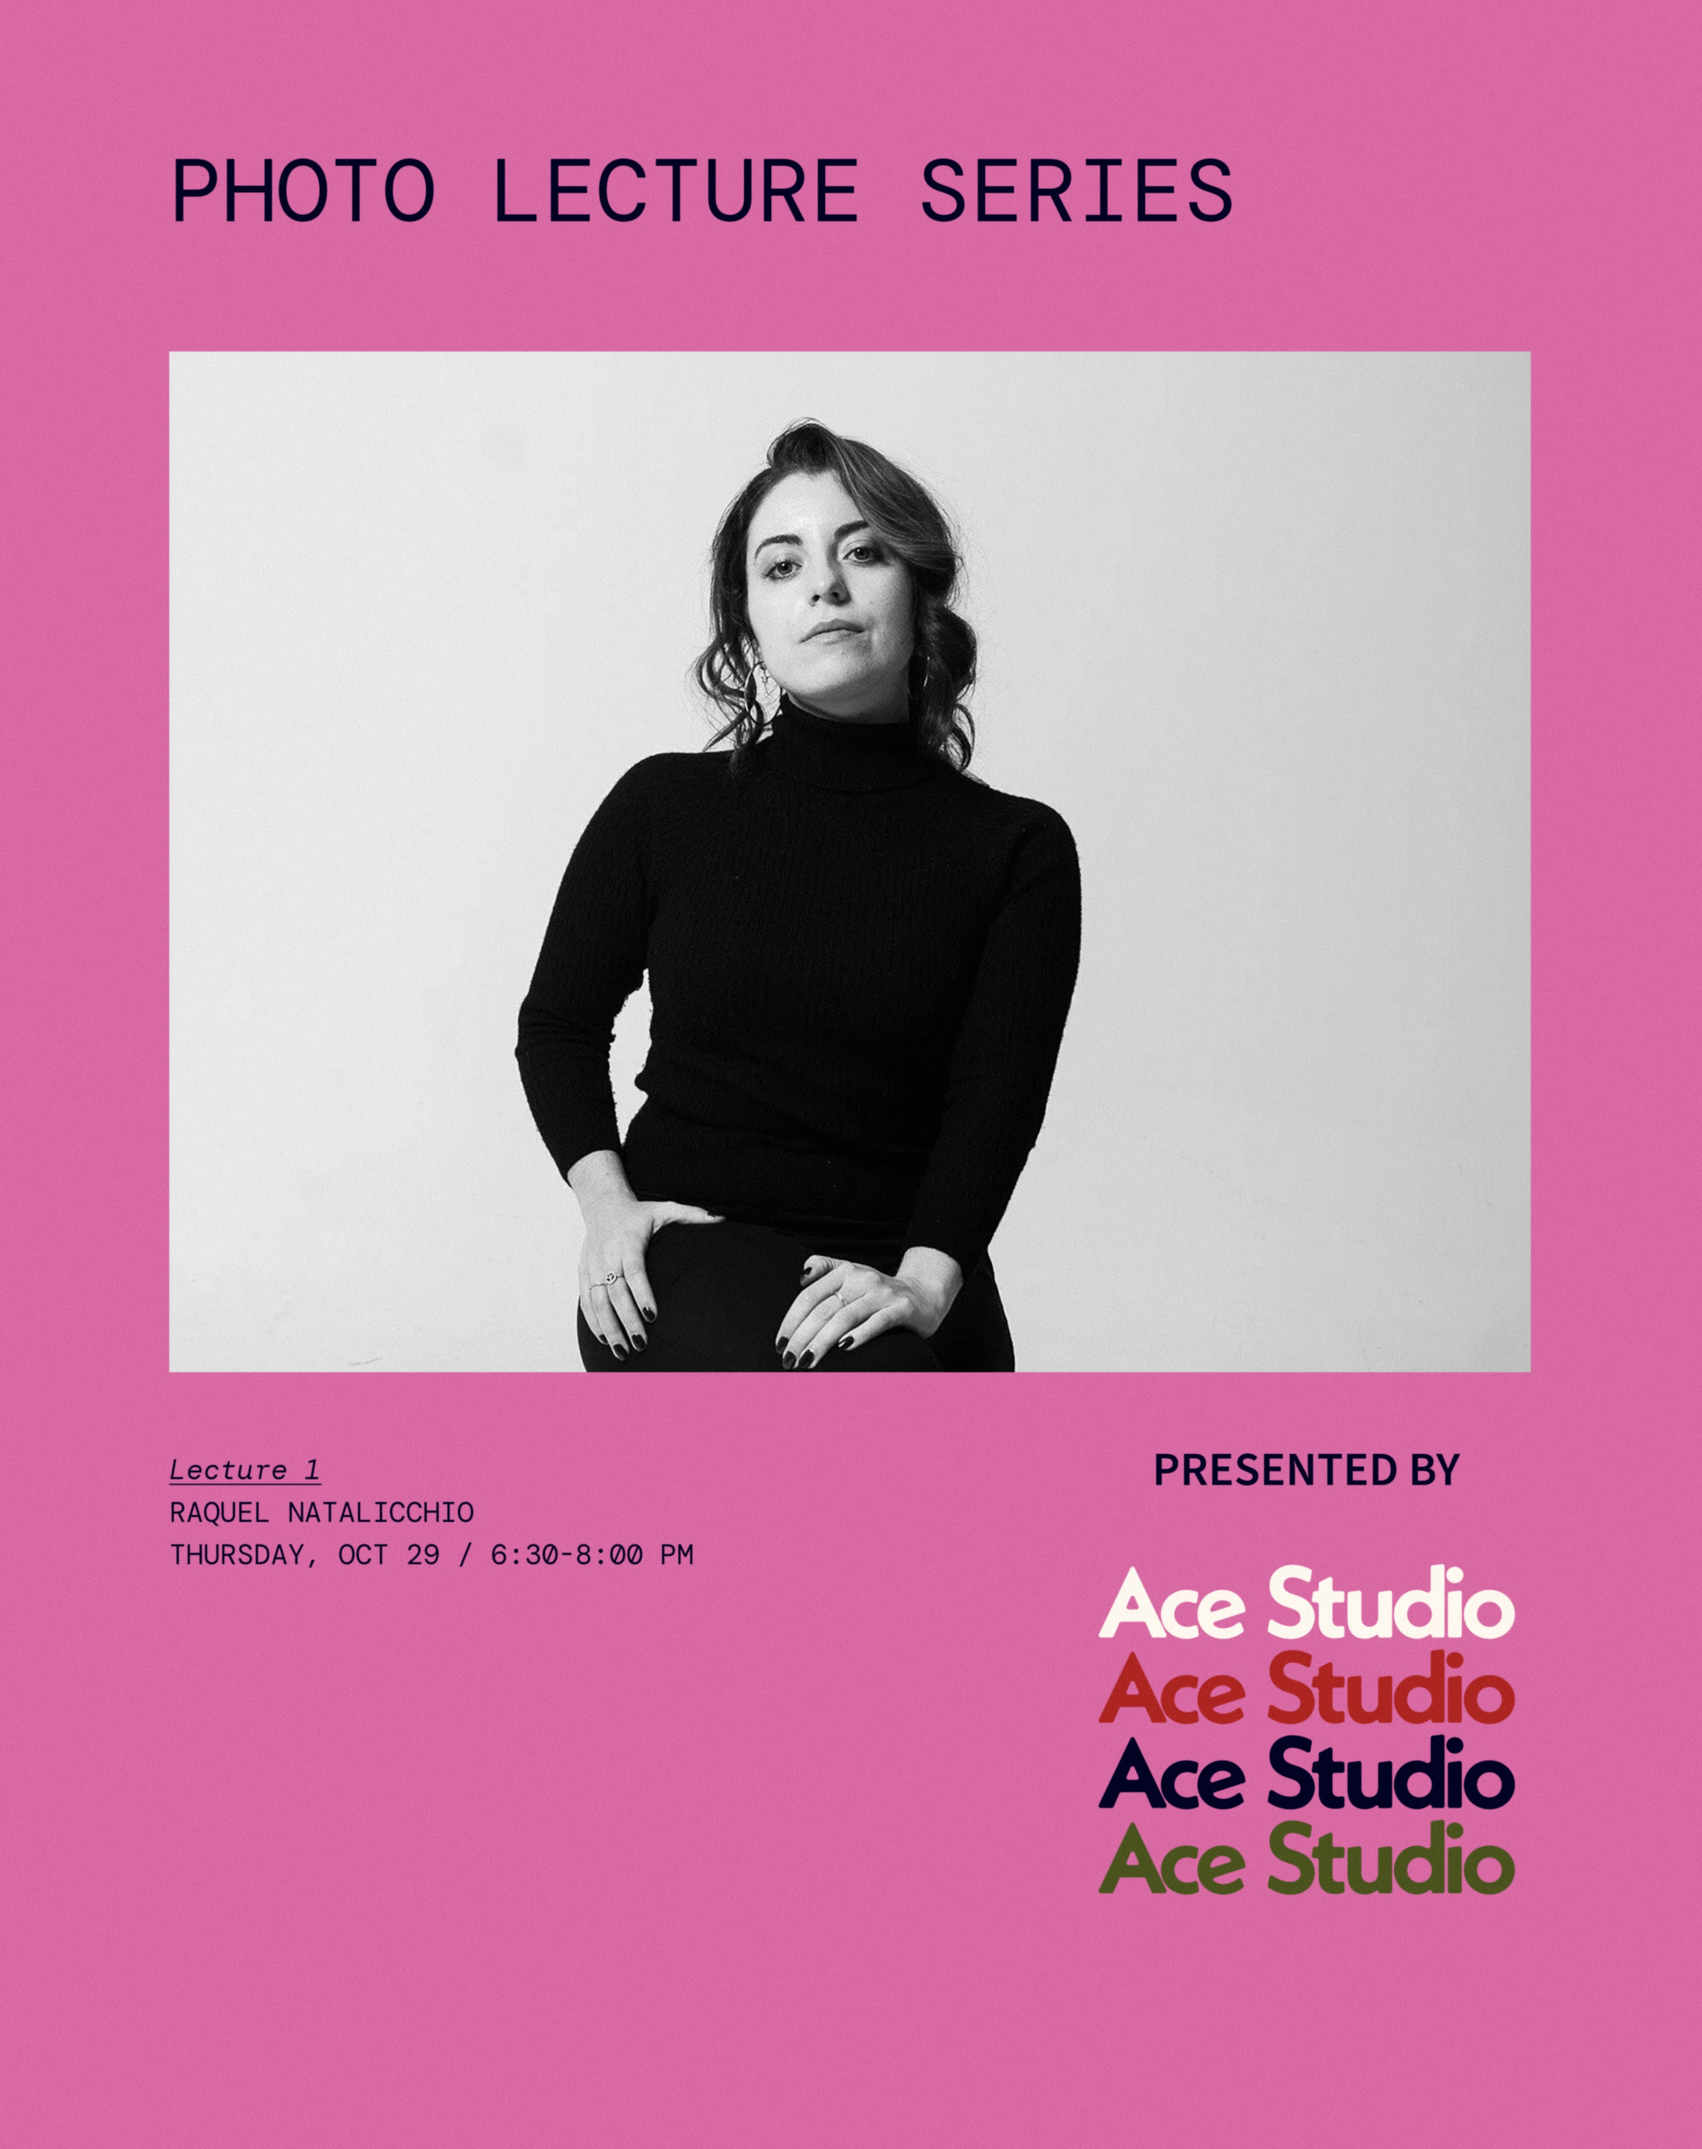
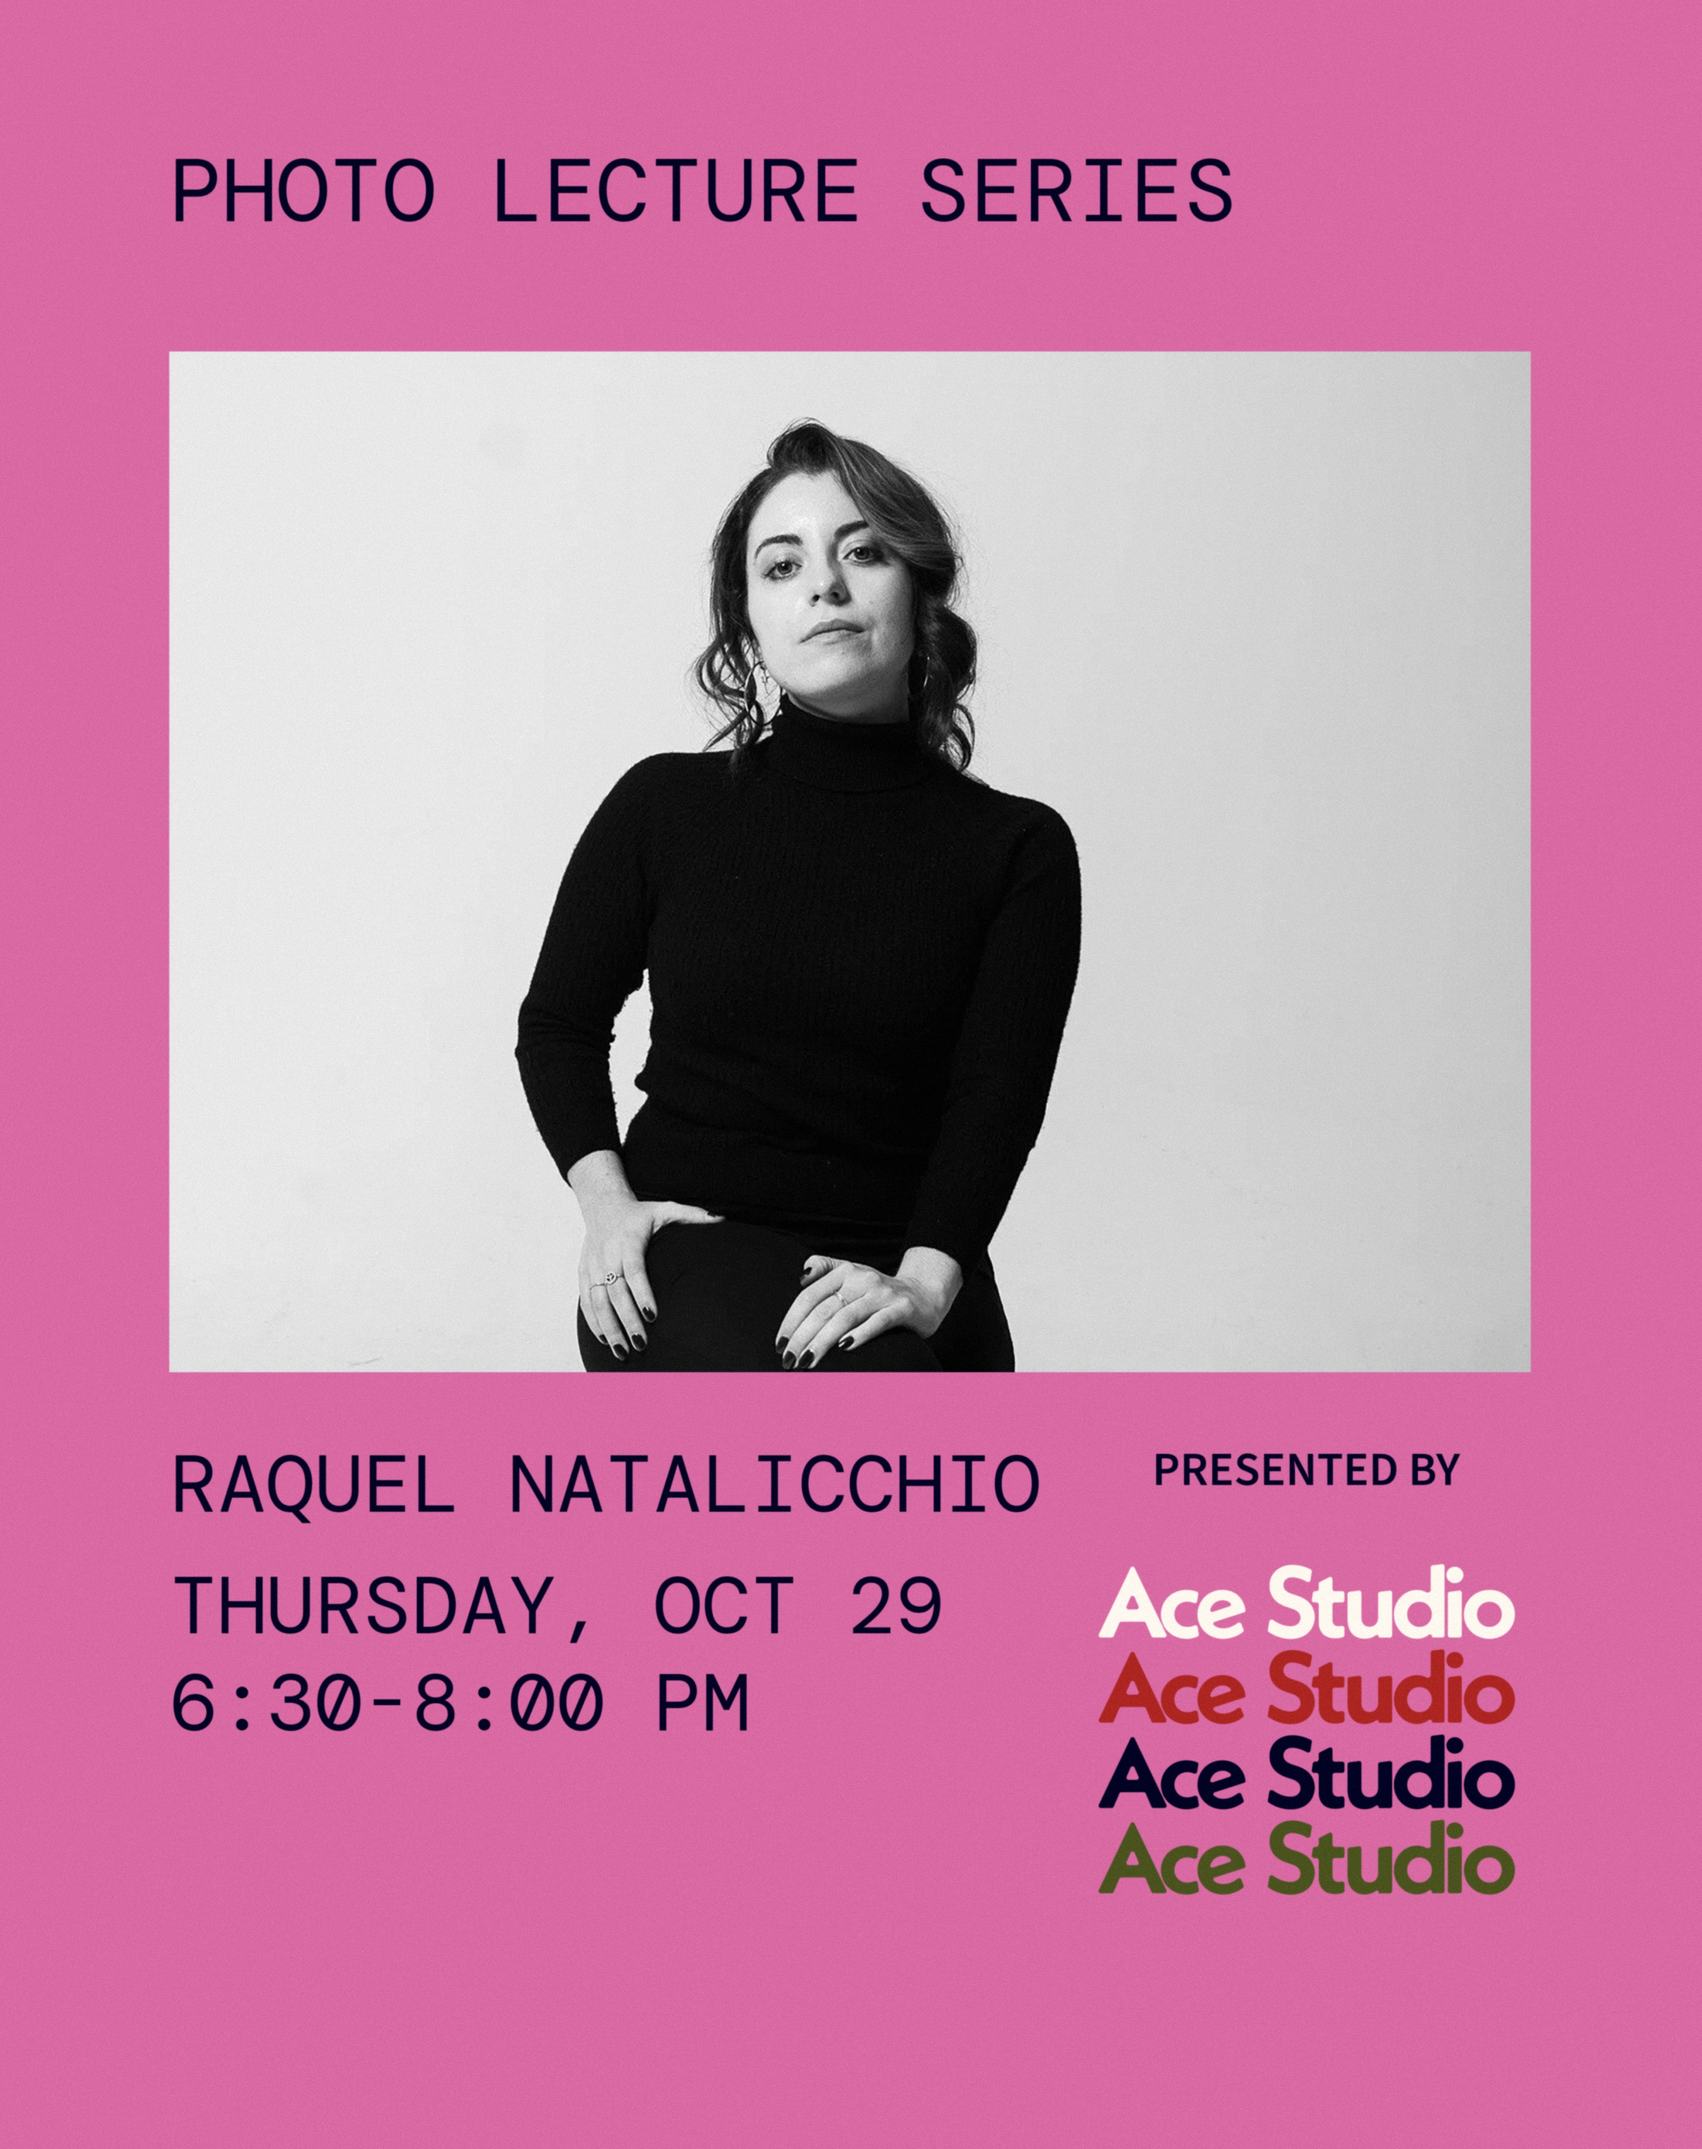
Lecture flyer: bigger name and date, no Lecture 1 label

Changed region(s): [[0.093, 0.654, 0.62, 0.8097], [0.093, 0.7786, 0.124, 0.8097]]

diff --git a/index.html b/index.html
@@ -276,7 +276,7 @@ footer{
     <div class="events-media" data-panel="events" hidden>
       <img data-flyer="0" alt="Film Photography Workshop flyer: three classes on Sundays, January 10, 17 and 24, presented by Ace Studio." src="images/flyer-film-photography-workshop.jpg" width="3000" height="3789" srcset="images/flyer-film-photography-workshop-1600.jpg 1600w, images/flyer-film-photography-workshop.jpg 3000w" sizes="(max-width:860px) 100vw, 75vw" loading="lazy" decoding="async">
       <img data-flyer="1" alt="Photo Walk flyer: when, where, and what to bring details for the Ace Studio photo walk." src="images/flyer-photo-walk.jpg" width="3000" height="3789" srcset="images/flyer-photo-walk-1600.jpg 1600w, images/flyer-photo-walk.jpg 3000w" sizes="(max-width:860px) 100vw, 75vw" loading="lazy" decoding="async">
-      <img data-flyer="2" alt="Photo Lecture Series flyer: Lecture 1 with photographer Raquel Natalicchio, Thursday October 29, 6:30 to 8:00 PM." src="images/flyer-photo-lecture-series.jpg" width="3000" height="3789" srcset="images/flyer-photo-lecture-series-1600.jpg 1600w, images/flyer-photo-lecture-series.jpg 3000w" sizes="(max-width:860px) 100vw, 75vw" loading="lazy" decoding="async">
+      <img data-flyer="2" alt="Photo Lecture Series flyer: photographer Raquel Natalicchio, Thursday October 29, 6:30 to 8:00 PM." src="images/flyer-photo-lecture-series.jpg" width="3000" height="3789" srcset="images/flyer-photo-lecture-series-1600.jpg 1600w, images/flyer-photo-lecture-series.jpg 3000w" sizes="(max-width:860px) 100vw, 75vw" loading="lazy" decoding="async">
     </div>
     <div class="contact-hero" data-panel="contact" hidden><img alt="A cream push-button desk phone and a wood-grain answering machine on a yellow cabinet in warm sunlight." src="images/contact-phone.jpg" width="2400" height="1600" loading="lazy" decoding="async"></div>
   </div>
